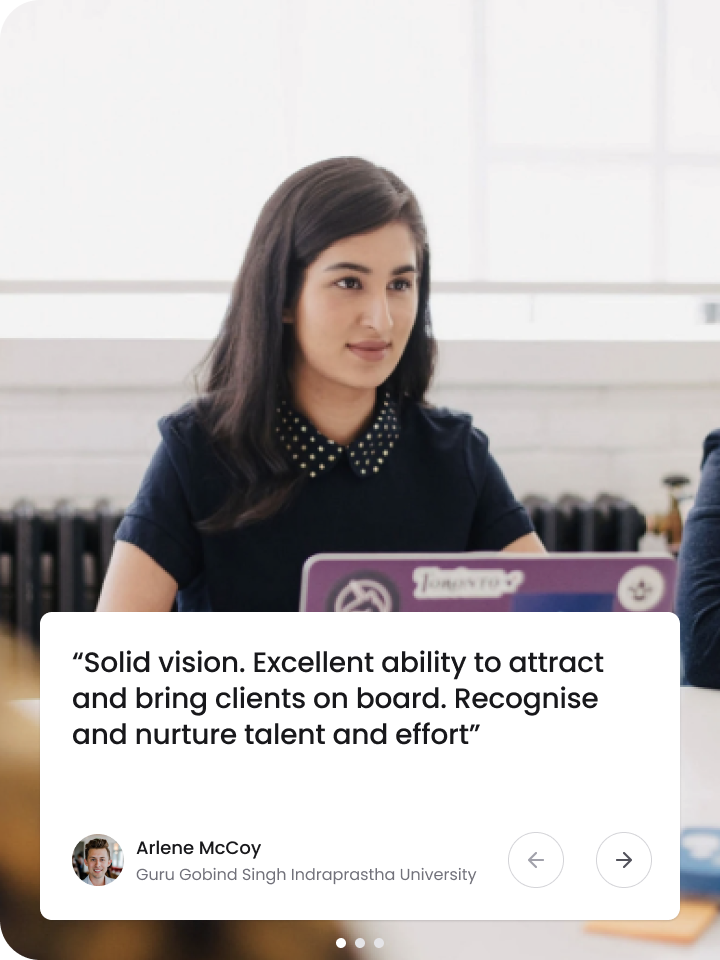
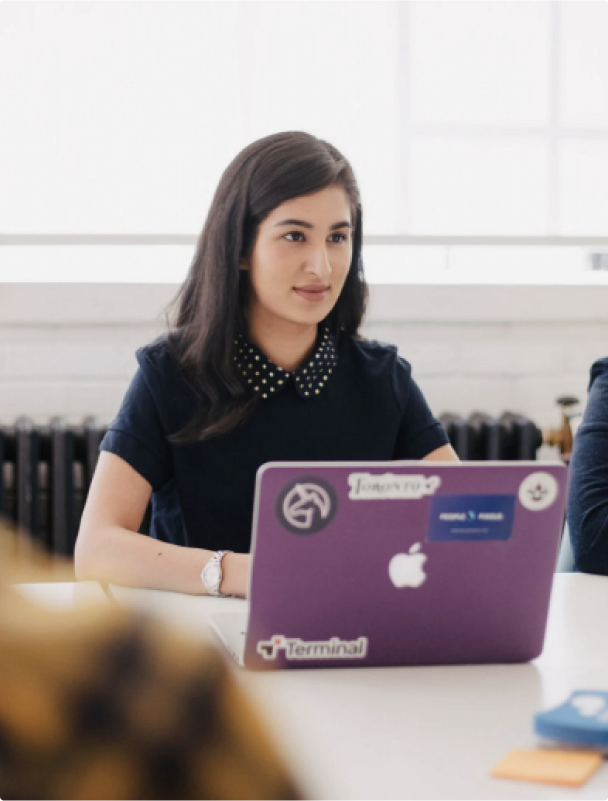
custom attribute directive and structural directive

diff --git a/src/app/custom-directive.directive.ts b/src/app/custom-directive.directive.ts
@@ -1,0 +1,74 @@
+import { Directive, ElementRef, Input } from '@angular/core';
+
+@Directive({
+  selector: '[appCustomDirective]'
+})
+
+// We are making a Attribute directive
+export class CustomDirectiveDirective {
+
+  // @Input() backgroundColor: string = '' ;
+
+  //! W R O N G  
+  // constructor(private element:ElementRef ) { 
+  //   this.element.nativeElement.style.backgroundColor = this.backgroundColor 
+  // }
+
+  //? Right way 
+  // constructor(private element: ElementRef) {
+  //   // Property initialization should be done in ngOnInit lifecycle hook instead.
+  // }
+
+  /*
+  !Angular input bindings are set after the class is instantiated(when the class is instantiated, first of all the constructor is called and then @Input binding variables are set), which means they are not available in the constructor. 
+  !However, they are available by the time the ngOnInit lifecycle hook is called, making it a suitable place for initialization logic that relies on input values.
+  */
+  // ngOnInit() {
+  //   // Now it's safe to use the input property because it's been initialized by Angular.
+  //   this.element.nativeElement.style.backgroundColor = this.backgroundColor || 'orange';
+  // }
+
+  //? Or ( we can use 'set' keyword in front of a @Input binding variable called 'backgroundColor'). So whenever we tries to set the value to the 'backgroundColor' variable, it will call the 'set' and sets the value. 
+  /*
+  Cons -> 1) we cannot access the child component elements inside this backgroundColor method because may be at that time they might not get instantiated. We can get error If the setter tries to manipulate child components or elements that are not yet available in the DOM.
+  */
+  //  @Input() set backgroundColor(color:string){
+  //   this.element.nativeElement.style.backgroundColor = color;
+  //  }
+
+
+   /*
+   if your setter function tries to access a ViewChild or manipulate DOM elements directly, doing so in ngOnInit or within the setter itself might lead to errors because these elements are not yet available. That's why for complex DOM manipulations or when you need to interact with child components or directives, you should use the ngAfterViewInit lifecycle hook, which ensures that the component's view has been fully initialized and is ready for direct DOM interactions.
+
+   */
+
+
+  private bgColor!: string;
+
+  constructor(private element: ElementRef) {}
+
+  // We are setting the background color whenever the property 
+ 
+
+  @Input('appCustomDirective') set backgroundColor(color: string) { // we can write a string inside the @Input decorator which signifies the name corresponding to which it execute the set method.
+    this.bgColor = color;
+    this.setStyle(color);
+  }
+  // @Input() set backgroundColor(color: string) {
+  //   this.bgColor = color;
+  //   this.setStyle(color);
+  // }
+
+  ngAfterViewInit() {
+    // Now it's safe to do complex DOM manipulation
+    this.setStyle(this.bgColor);
+  }
+
+  private setStyle(color: string) {
+    if (this.element.nativeElement) {
+      this.element.nativeElement.style.backgroundColor = color || 'orange';
+    }
+  }
+
+
+}

diff --git a/src/app/app.component.html b/src/app/app.component.html
@@ -1,7 +1,7 @@
-<div class="main d-flex container-fluid vh-100 p-5" style="background-color: #E3E8EC;"  >
+<div class="main d-flex container-fluid vh-100 " style="background-color: #E3E8EC; padding: 80px 100px;"  >
   <app-toast></app-toast>
 
-  <div class="row w-100" style="border: 1px solid;">
+  <div class="row w-100" style="">
 
     <div class="col-6 bg-white d-flex align-items-center" style="padding: 0px 150px;" >
       
@@ -14,7 +14,8 @@
 
         <!--!Hello again  -->
         <div class="d-flex justify-content-center align-items-center gap-1" style="font-family: 'PT Serif', serif;">
-          <span style="font-size: 20px;">Hello Again</span>
+          <!-- appCustomDirective [backgroundColor]="'orange'"  -->
+          <span [appCustomDirective] = "'orange'" style="font-size: 20px;">Hello Again</span>
           <div class="" style="width: 30px; height: 30px;">
             <img style="object-fit: contain; width: 100%; height: 100%;" src="https://upload.wikimedia.org/wikipedia/commons/thumb/7/70/Emoji_u1f44b.svg/2048px-Emoji_u1f44b.svg.png">
           </div>
@@ -70,12 +71,11 @@
       
     </div>
 
+    <div class="col-6 h-100 pe-0" style="background-color: #FFFFFF; " >
 
-    <div class="col-6 h-100 pe-0" style="background-color: #FFFFFF;" >
-
-      <div class="me-0" style="width: 100%; height: 100;">
-        <div id="carouselExampleControls" class="carousel slide" data-bs-ride="carousel" style="width: 100%; height: 100%;">
-          <div class="carousel-inner" style="width: 100%; height: 100%;">
+      <div class="me-0 col-6 h-100 pe-0" style="width: 100%; height: 100%; ">
+        <div id="carouselExampleControls" class="carousel slide" data-bs-ride="carousel" style="width: 100%; height: 100%; ">
+          <div class="carousel-inner" style="width: 100%; height: 100%; border-radius: 20px 0px 0px 20px;">
             <div class="carousel-item active" style="width: 100%; height: 100%;">
               <img src="../assets/images/Frame 2609499.png" class="d-block w-100 h-100" alt="..." style="object-fit: fill;">
             </div>
@@ -103,3 +103,9 @@
 
  <app-typing-test></app-typing-test>
  <app-pipes></app-pipes>
+ <app-directives></app-directives>
+
+ <!--! use of custom structural directive  -->
+ <ul *appCustomStructuralDirective="5; let i = index; let c = color">
+  <li>Hi there {{i}}&nbsp; {{c}}</li>
+ </ul>

diff --git a/src/app/directives/directives.component.ts b/src/app/directives/directives.component.ts
@@ -1,0 +1,41 @@
+import { Component } from '@angular/core';
+
+@Component({
+  selector: 'app-directives',
+  templateUrl: './directives.component.html',
+  styleUrls: ['./directives.component.css']
+})
+export class DirectivesComponent {
+
+  currentPage:number = 0;
+  pageLimit:number = 5;
+
+  imagesArray = [
+    { title: "Nature", imageURL: "https://www.w3schools.com/w3css/img_lights.jpg" },
+    { title: "City", imageURL: "https://www.w3schools.com/w3images/fjords.jpg" },
+    { title: "Mountains", imageURL: "https://www.w3schools.com/w3images/mountains.jpg" },
+    { title: "Forest", imageURL: "https://www.w3schools.com/w3images/forest.jpg" },
+    { title: "Beach", imageURL: "https://www.w3schools.com/w3images/ocean.jpg" },
+    { title: "Nature", imageURL: "https://www.w3schools.com/w3css/img_lights.jpg" },
+    { title: "City", imageURL: "https://www.w3schools.com/w3images/fjords.jpg" },
+    { title: "Mountains", imageURL: "https://www.w3schools.com/w3images/mountains.jpg" },
+    { title: "Forest", imageURL: "https://www.w3schools.com/w3images/forest.jpg" },
+    { title: "Beach", imageURL: "https://www.w3schools.com/w3images/ocean.jpg" },
+    { title: "Nature", imageURL: "https://www.w3schools.com/w3css/img_lights.jpg" },
+    { title: "City", imageURL: "https://www.w3schools.com/w3images/fjords.jpg" },
+    { title: "Mountains", imageURL: "https://www.w3schools.com/w3images/mountains.jpg" },
+    { title: "Forest", imageURL: "https://www.w3schools.com/w3images/forest.jpg" },
+    { title: "Beach", imageURL: "https://www.w3schools.com/w3images/ocean.jpg" },
+    { title: "Nature", imageURL: "https://www.w3schools.com/w3css/img_lights.jpg" },
+    { title: "City", imageURL: "https://www.w3schools.com/w3images/fjords.jpg" },
+    { title: "Mountains", imageURL: "https://www.w3schools.com/w3images/mountains.jpg" },
+    { title: "Forest", imageURL: "https://www.w3schools.com/w3images/forest.jpg" },
+    { title: "Beach", imageURL: "https://www.w3schools.com/w3images/ocean.jpg" },
+    
+  ];
+
+  checkPage(pageNumber:number){
+    return Math.abs((this.currentPage - pageNumber)) < 5
+  }
+
+}

diff --git a/src/app/app.module.ts b/src/app/app.module.ts
@@ -13,6 +13,10 @@ import { MatFormFieldModule } from '@angular/material/form-field';
 import { MatInputModule } from '@angular/material/input';
 import { MatNativeDateModule,DateAdapter, MAT_DATE_FORMATS, MAT_DATE_LOCALE  } from '@angular/material/core';
 import { MomentDateAdapter, MAT_MOMENT_DATE_ADAPTER_OPTIONS } from '@angular/material-moment-adapter';
+import { DirectivesComponent } from './directives/directives.component';
+import {MatPaginatorModule} from '@angular/material/paginator';
+import { CustomDirectiveDirective } from './custom-directive.directive';
+import { CustomStructuralDirectiveDirective } from './custom-structural-directive.directive';
 
 
 export const MY_FORMATS = {
@@ -32,6 +36,9 @@ export const MY_FORMATS = {
     ToastComponent,
     TypingTestComponent,
     PipesComponent,
+    DirectivesComponent,
+    CustomDirectiveDirective,
+    CustomStructuralDirectiveDirective,
   ],
   imports: [
     BrowserModule,
@@ -41,7 +48,8 @@ export const MY_FORMATS = {
     MatDatepickerModule,
     MatFormFieldModule,
     MatInputModule,
-    MatNativeDateModule
+    MatNativeDateModule,
+    MatPaginatorModule
   ],
   providers: [
     { provide: DateAdapter, useClass: MomentDateAdapter, deps: [MAT_DATE_LOCALE, MAT_MOMENT_DATE_ADAPTER_OPTIONS] },

diff --git a/src/app/directives/directives.component.html b/src/app/directives/directives.component.html
@@ -1,0 +1,29 @@
+<!-- <nav aria-label="">
+    <ul class="pagination">
+        <li class="page-item" (click)="currentPage = currentPage - 1" [ngClass]="{'disabled':currentPage == 0}"><a class="page-link" href="#" tabindex="-1">Previous</a></li>
+        <ng-container *ngFor="let item of imagesArray; let i = index;" >
+            <li class="page-item " 
+                *ngIf="checkPage(i)" 
+                [ngClass]="{'active':i==currentPage}" 
+                (click) = "currentPage = i"
+                >
+                <a class="page-link" href="#">{{i+1}}</a>
+            </li>
+        </ng-container>
+      <li class="page-item" (click)=" currentPage =  currentPage + 1" [ngClass]="{'disabled':currentPage == imagesArray.length-1}"><a class="page-link" href="#">Next</a></li>
+    </ul>
+</nav> -->
+
+<mat-paginator [length]="imagesArray.length"
+    [pageSize]="5"
+    [pageSizeOptions]="[1,5, 10, 25, 100]"
+    aria-label="Select page"
+    (page)="currentPage = $event.pageIndex">
+</mat-paginator>
+<div class="show-item" style="border: 1px solid; width: 300px; aspect-ratio: 1/1;">
+    
+    <div class="img w-100 h-100" >
+        <img [src]="imagesArray[currentPage].imageURL" class="w-100 h-100" style="object-fit: cover;">
+    </div>
+
+</div>

diff --git a/src/app/custom-structural-directive.directive.ts b/src/app/custom-structural-directive.directive.ts
@@ -1,0 +1,25 @@
+import { Directive, TemplateRef, ViewContainerRef, Input } from '@angular/core';
+
+@Directive({
+  selector: '[appCustomStructuralDirective]'
+})
+export class CustomStructuralDirectiveDirective {
+
+  constructor(
+    private viewContainerRef:ViewContainerRef,
+    private templateRef:TemplateRef<any>
+    ) { }
+
+  @Input('appCustomStructuralDirective') set render(times:number){
+    this.viewContainerRef.clear();
+
+    for(let i =0;i<times;i++){
+      // this.viewContainerRef.createEmbeddedView(this.templateRef, {})
+      this.viewContainerRef.createEmbeddedView(this.templateRef, {
+        index:i,
+        color:'red'
+      })
+    }
+  }
+
+}

diff --git a/src/app/directives/directives.component.spec.ts b/src/app/directives/directives.component.spec.ts
@@ -1,0 +1,21 @@
+import { ComponentFixture, TestBed } from '@angular/core/testing';
+
+import { DirectivesComponent } from './directives.component';
+
+describe('DirectivesComponent', () => {
+  let component: DirectivesComponent;
+  let fixture: ComponentFixture<DirectivesComponent>;
+
+  beforeEach(() => {
+    TestBed.configureTestingModule({
+      declarations: [DirectivesComponent]
+    });
+    fixture = TestBed.createComponent(DirectivesComponent);
+    component = fixture.componentInstance;
+    fixture.detectChanges();
+  });
+
+  it('should create', () => {
+    expect(component).toBeTruthy();
+  });
+});

diff --git a/src/app/custom-structural-directive.directive.spec.ts b/src/app/custom-structural-directive.directive.spec.ts
@@ -1,0 +1,8 @@
+import { CustomStructuralDirectiveDirective } from './custom-structural-directive.directive';
+
+describe('CustomStructuralDirectiveDirective', () => {
+  it('should create an instance', () => {
+    const directive = new CustomStructuralDirectiveDirective();
+    expect(directive).toBeTruthy();
+  });
+});

diff --git a/src/app/custom-directive.directive.spec.ts b/src/app/custom-directive.directive.spec.ts
@@ -1,0 +1,8 @@
+import { CustomDirectiveDirective } from './custom-directive.directive';
+
+describe('CustomDirectiveDirective', () => {
+  it('should create an instance', () => {
+    const directive = new CustomDirectiveDirective();
+    expect(directive).toBeTruthy();
+  });
+});
